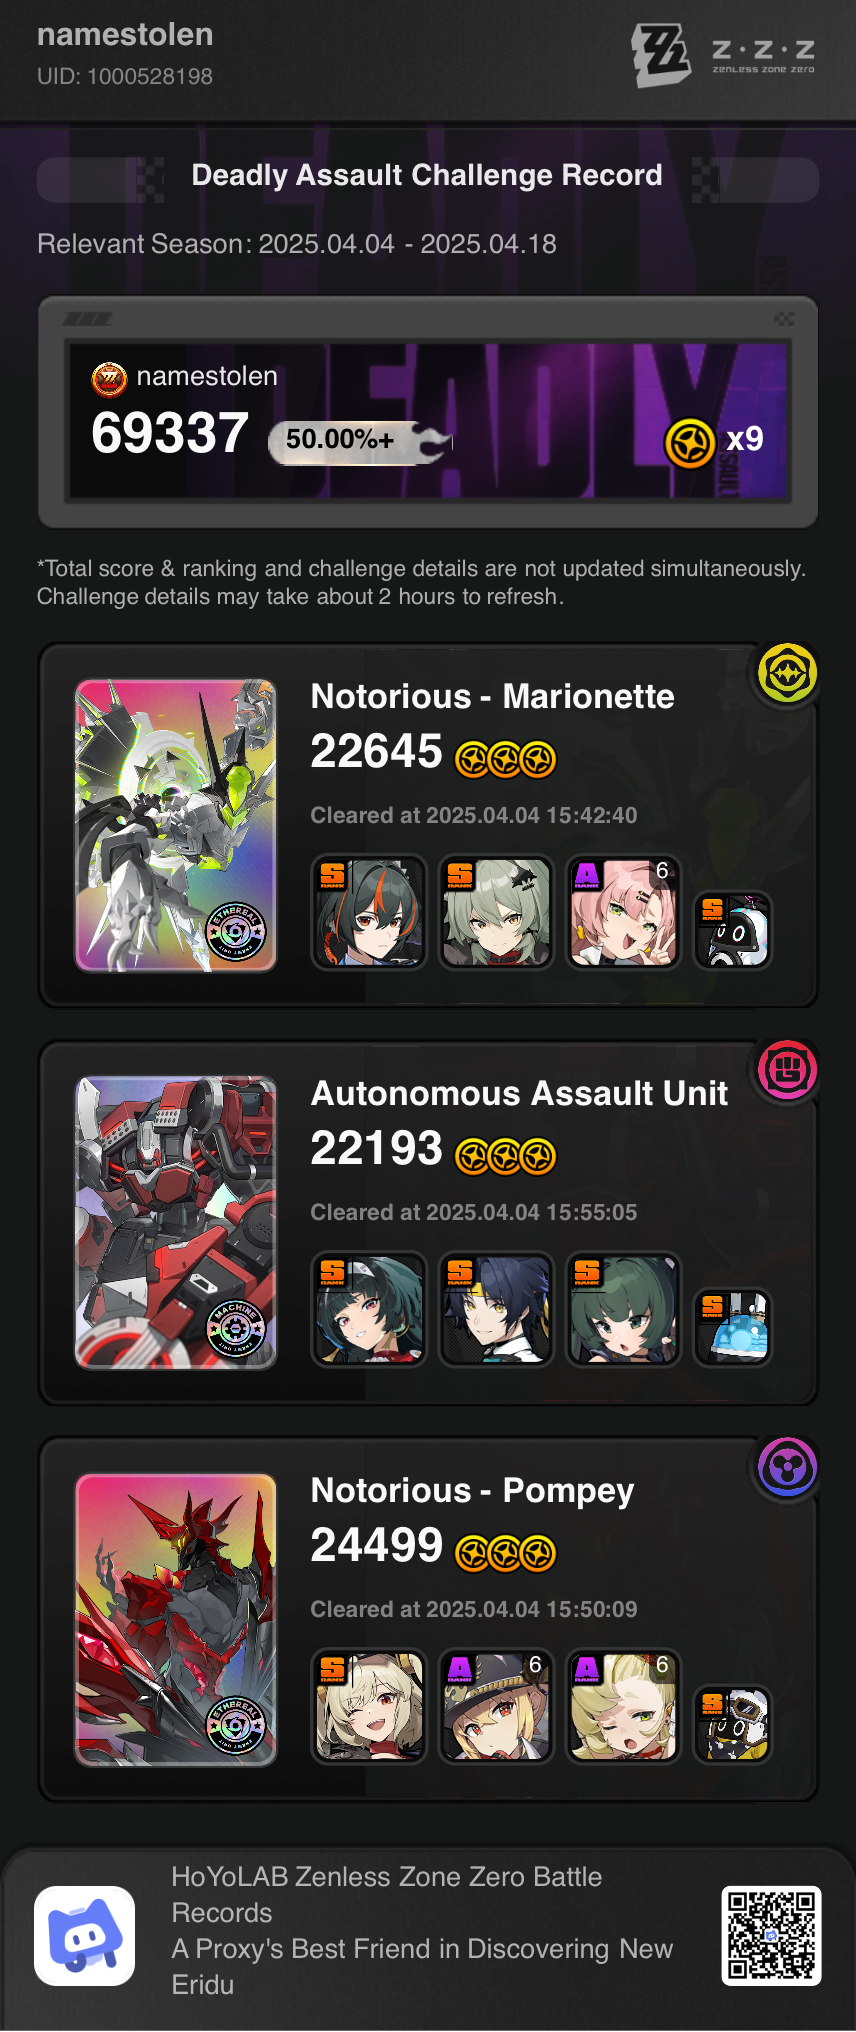
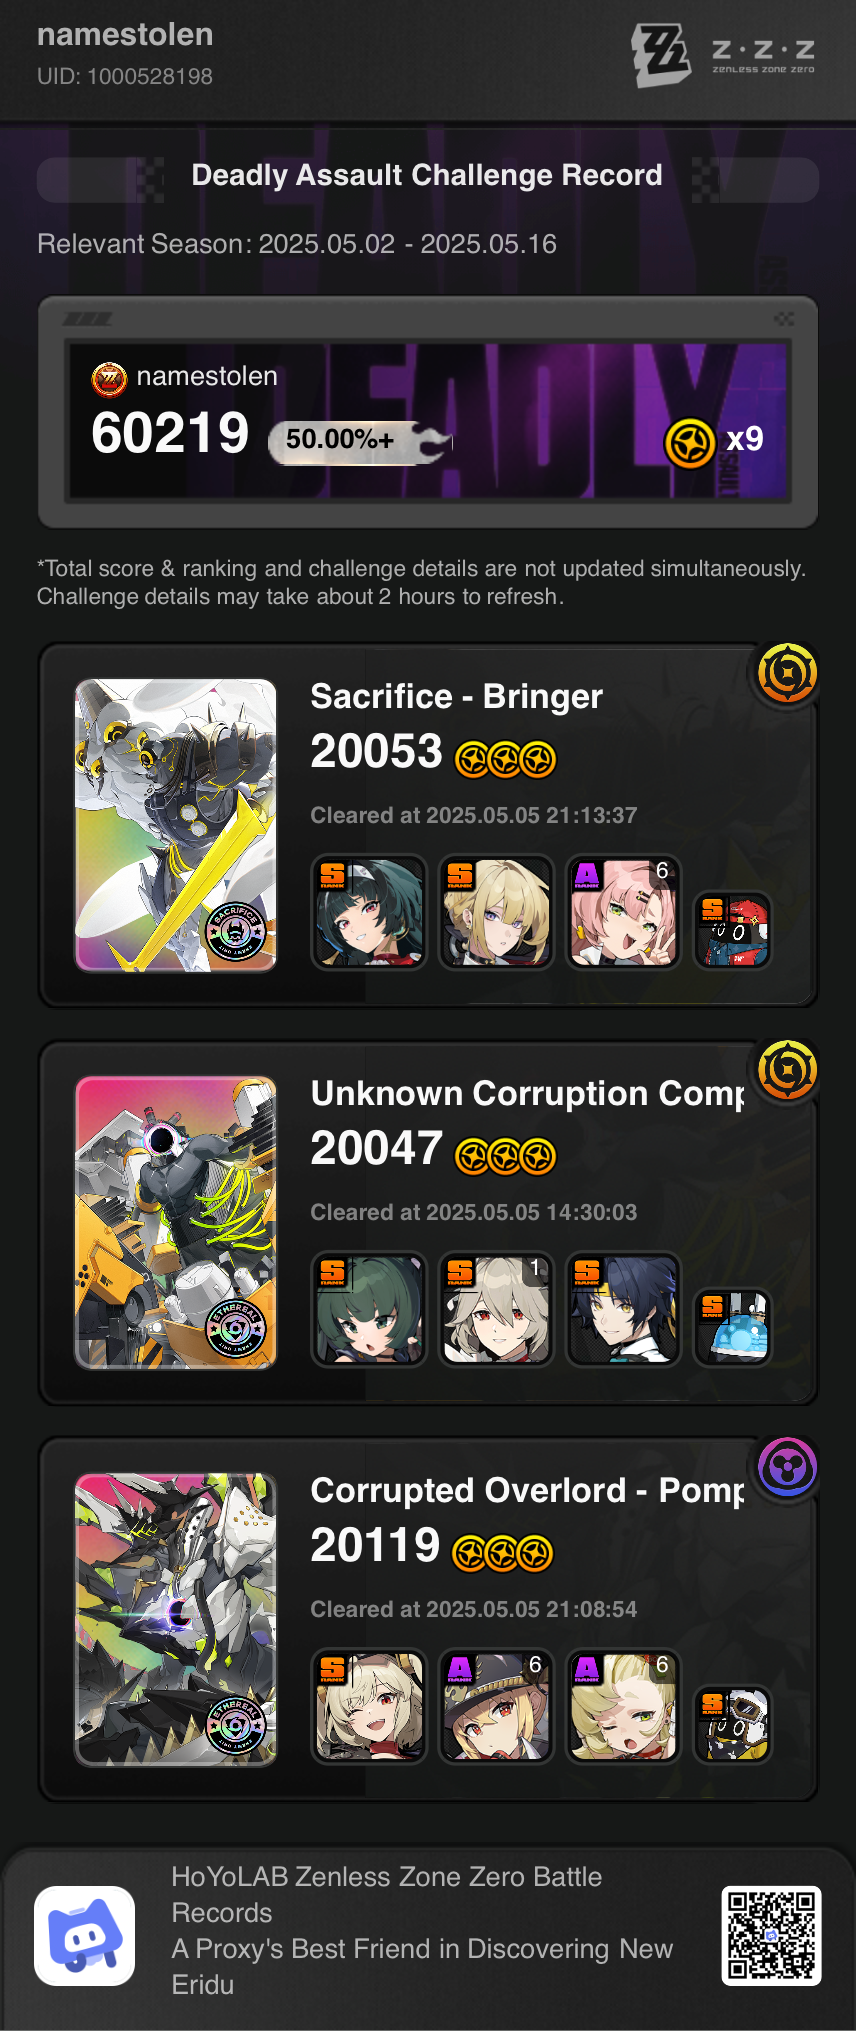
Updated Deadly Assault

diff --git a/deadly-assault/team_images/05-06-25/index-2.html b/deadly-assault/team_images/05-06-25/index-2.html
@@ -74,10 +74,10 @@
 	
 	</head>
 <body>
-	<p align="center"><iframe class="video" width="560" src="https://video.hardlimit.com/videos/embed/dsNNdPMPBYkRcVZxjjqzbb?warningTitle=0" frameborder="0" allowfullscreen="" sandbox="allow-same-origin allow-scripts allow-popups"></iframe></p>
+	<p align="center"><iframe class="video" width="560" src="https://video.hardlimit.com/videos/embed/6aabc07d-3af9-4813-bc3b-d3207e570200?warningTitle=0" frameborder="0" allowfullscreen="" sandbox="allow-same-origin allow-scripts allow-popups"></iframe></p>
 	
 <p align="center"><a href="https://video.hardlimit.com/c/namestolen/videos">View Archives</a> | <a href="https://elekk.xyz/@campbell">Follow me</a>
-<div class="fade in" align="center" style="font-family: 'VT323', monospace;font-size: 30px;color: rgb(64,64,64);">DEADLY ASSAULT VER. 1.7<p style="font-size:14px;color: rgb(64,64,64);">
+<div class="fade in" align="center" style="font-family: 'VT323', monospace;font-size: 30px;color: rgb(64,64,64);">DEADLY ASSAULT VER. 1.6<p style="font-size:14px;color: rgb(64,64,64);">
 <div class="column">
 	<h3 align="center">Team 1</h3>
 	<div class="click-zoom"><label><input type="checkbox">
@@ -97,20 +97,21 @@
 	<img src="team_images/photo-6.png" width="100%"></label></div>
 	<h3 align="center">Team 3</h3>
 	<div class="click-zoom"><label><input type="checkbox">
+	<img src="team_images/photo-1.png" width="100%"></label></div>
+	<div class="click-zoom"><label><input type="checkbox">
 	<img src="team_images/photo-7.png" width="100%"></label></div>
 	<div class="click-zoom"><label><input type="checkbox">
 	<img src="team_images/photo-8.png" width="100%"></label></div>
-	<div class="click-zoom"><label><input type="checkbox">
-	<img src="team_images/photo-9.png" width="100%"></label></div>
 	</div>
 </div>
 
-<p><br><br>Comments: <br><br>I skpped the last Deadly Assault posting because my video got really messed up. Anyway, I'm back and the game mode is harder than ever. I think for every stage this cycle I cleared the 10k threshhold by less than 100 points. But! I still did it. Bringer is an annoying and bad boss, but everything else is pretty manageable. One small editor's note: Qingyi used The Restrained W-Engine but for some reason it isn't showing in her character card.<br><br><br></p>
+<p><br><br>Comments: <br><br>This is now a deadly assault page! I do not think that Shiyu Defense brings the amount of challenge that demands a record of clears for my own archival purposes, but this mode definitely does. This cycle was perhaps the easiest clear to get to-date, which I find odd since my roster and stats haven't changed appreciably. I think what happened is a combination of my own skill level getting higher matched up with a cycle that is tuned down now that the game isn't promoting Miyabi, the most broken character ever. Something else to note is that I didn't even bother trying to shoehorn Evelyn into any of these teams because I think she is a liability against basically all of these bosses. So much for tier lists!<br><br><br></p>
 
 <!-- Footer -->
 			<footer id="footer" style="position:relative;">
 				<ul class="icons">
 					<li><a rel="me" href="https://elekk.xyz/@campbell" class="icon brands fa-mastodon"><span class="label">Mastodon</span></a></li>
+					<li><a href="https://twitter.com/smallscreened" class="icon brands fa-twitter"><span class="label">Twitter</span></a></li>
 					<li><a href="https://ko-fi.com/campbellbird" class="icon solid fa-mug-hot"><span class="label">Ko-Fi</span></a></li>
 					<li><a href="https://github.com/smallscreened" class="icon brands fa-github"><span class="label">GitHub</span></a></li>
 					<li><a href=mailto:campbell@smallscreen.info class="icon fa-envelope"><span class="label">Email</span></a></li>
